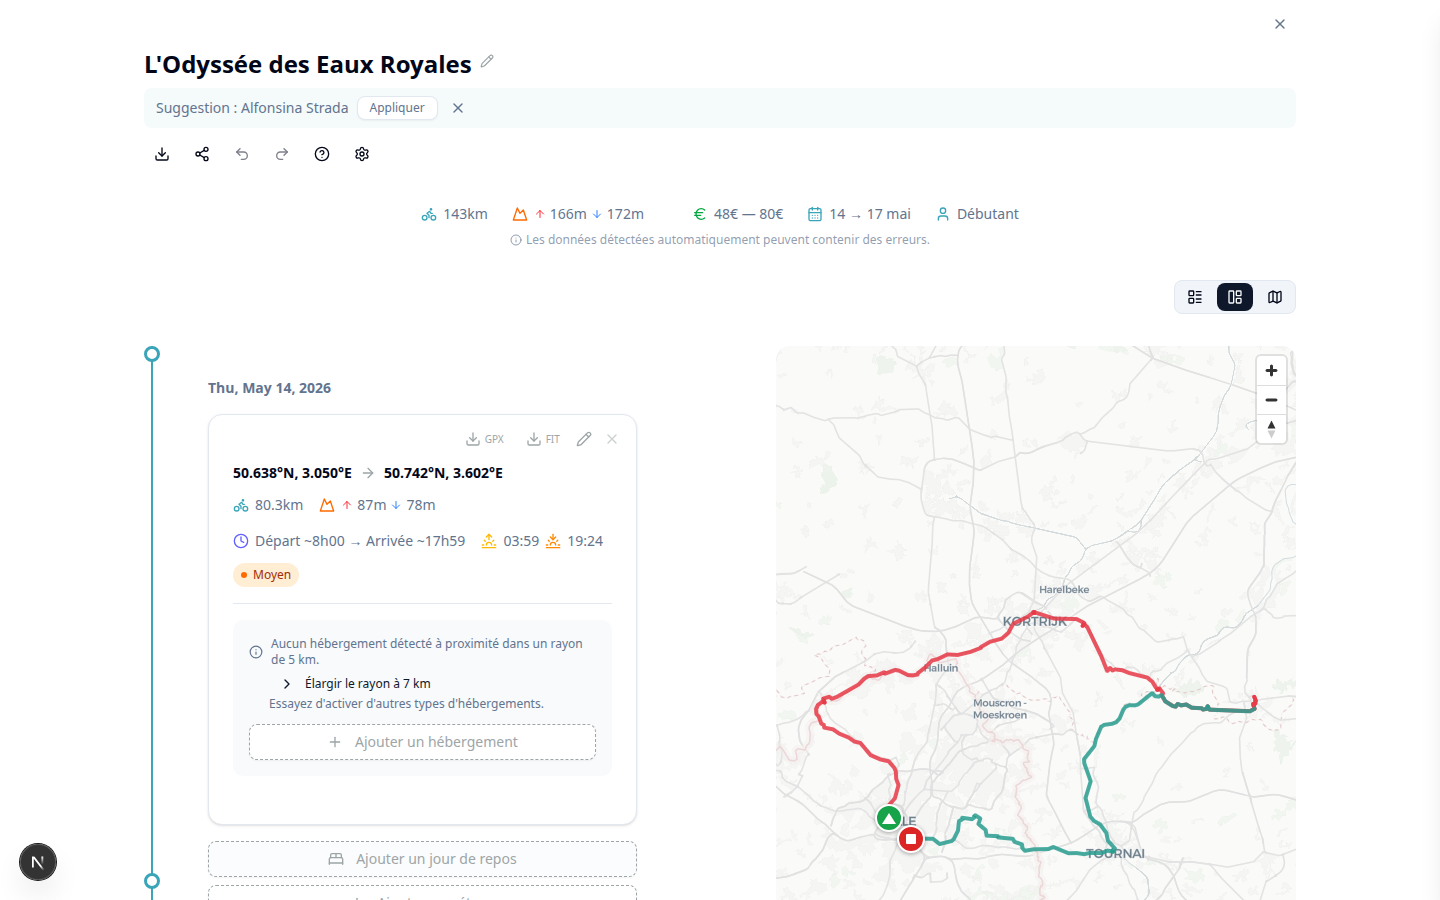
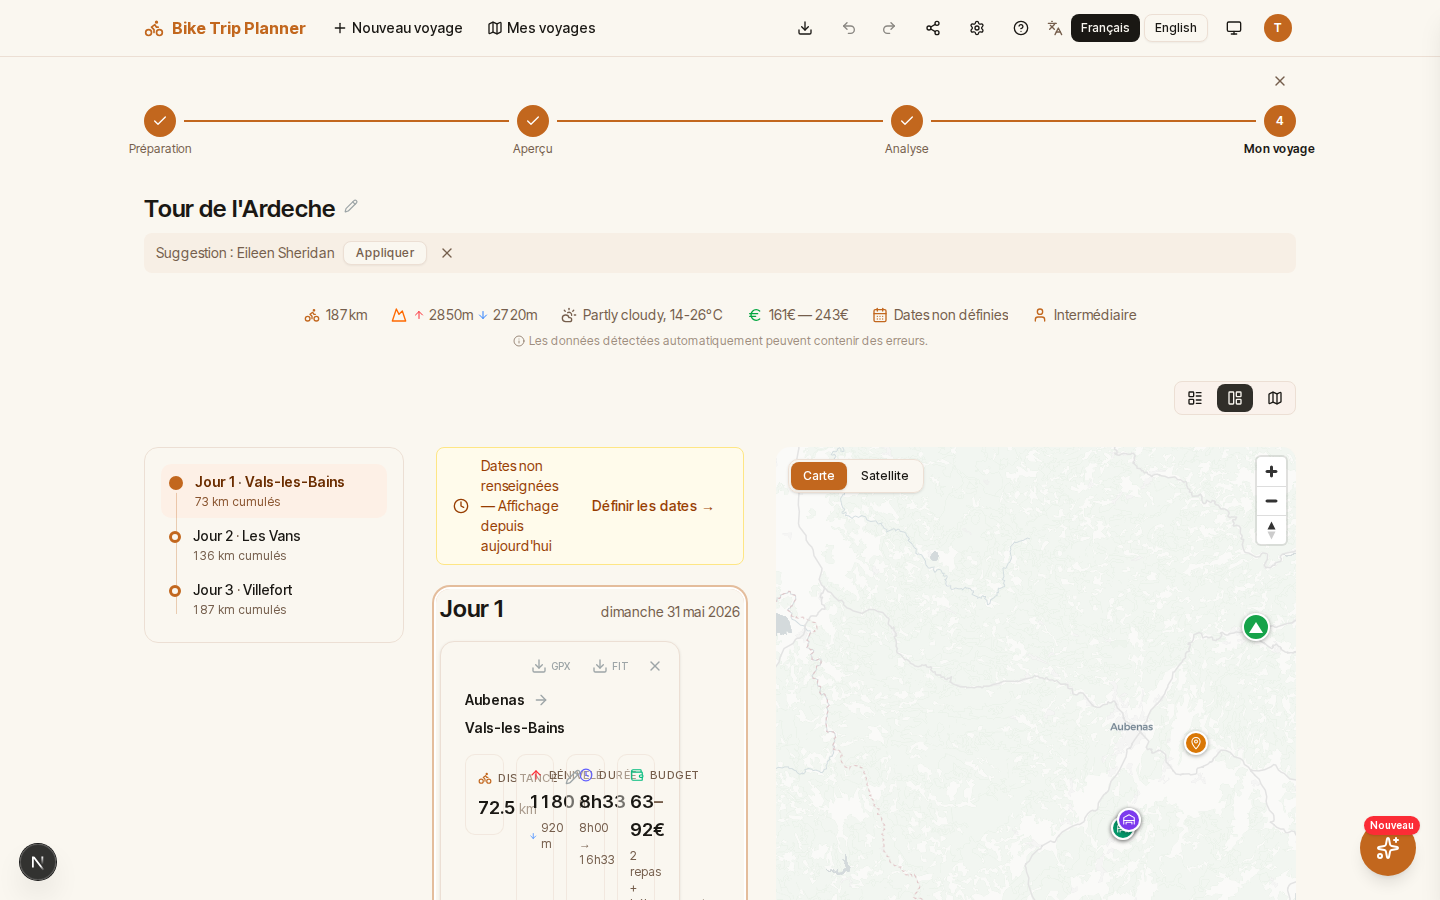
docs: regenerate screenshots with the new top bar + dedicated capture config
- Regenerated the README (desktop split, mobile timeline) and landing-carousel
  (map, stage, analysis) screenshots against the merged top-bar redesign (#559);
  the 3 landing images were previously missing (broken images on the landing).
- Added pwa/playwright.screenshots.config.ts (testDir scoped to tests/screenshots,
  no testIgnore) and pointed `make screenshots` at it: the main config's
  `**/screenshots/**` ignore also skipped the file when targeted explicitly.
- capture.spec.ts: configurable settle delay; longer wait so the split-view
  CARTO map tiles finish painting before capture.

diff --git a/pwa/playwright.screenshots.config.ts b/pwa/playwright.screenshots.config.ts
@@ -1,0 +1,33 @@
+import { defineConfig, devices } from "@playwright/test";
+
+const chromiumExecutable = process.env.PLAYWRIGHT_CHROMIUM_EXECUTABLE_PATH;
+
+/**
+ * Dedicated config for the documentation screenshot capture
+ * (`tests/screenshots/capture.spec.ts`), run via `make screenshots`.
+ *
+ * The main `playwright.config.ts` ignores `**\/screenshots\/**` so the capture
+ * never runs during `make test-e2e`; that same ignore would also skip the file
+ * when targeted explicitly, hence this separate config scoped to the screenshots
+ * directory with no ignore.
+ */
+export default defineConfig({
+  testDir: "./tests/screenshots",
+  reporter: "line",
+  use: {
+    baseURL: process.env.PLAYWRIGHT_BASE_URL ?? "https://localhost",
+    ignoreHTTPSErrors: true,
+    locale: "fr-FR",
+  },
+  projects: [
+    {
+      name: "chromium",
+      use: {
+        ...devices["Desktop Chrome"],
+        ...(chromiumExecutable && {
+          launchOptions: { executablePath: chromiumExecutable },
+        }),
+      },
+    },
+  ],
+});

diff --git a/pwa/tests/screenshots/capture.spec.ts b/pwa/tests/screenshots/capture.spec.ts
@@ -39,9 +39,9 @@ const CLIP_16_9 = { x: 0, y: 0, width: 1440, height: 810 } as const;
 const JPEG_QUALITY = 82;
 
 /** Let map tiles and lazily-rendered panels settle before capturing. */
-async function settle(page: Page): Promise<void> {
+async function settle(page: Page, ms = 1500): Promise<void> {
   await page.waitForLoadState("networkidle");
-  await page.waitForTimeout(1200);
+  await page.waitForTimeout(ms);
 }
 
 test.beforeAll(() => {
@@ -60,7 +60,8 @@ test.describe("desktop", () => {
     const toggle = mockedPage.getByTestId("view-mode-toggle");
     await toggle.getByTestId("view-mode-split").click();
     await mockedPage.getByTestId("split-view-container").waitFor();
-    await settle(mockedPage);
+    // Toggling to split re-mounts the map; give the CARTO tiles time to paint.
+    await settle(mockedPage, 5000);
 
     await mockedPage.screenshot({
       path: path.join(README_DIR, "desktop-split-view.png"),